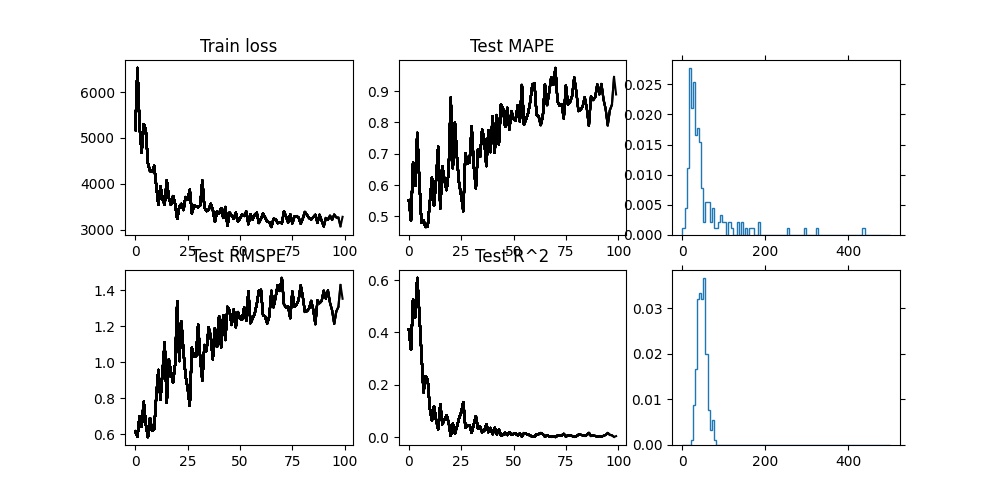
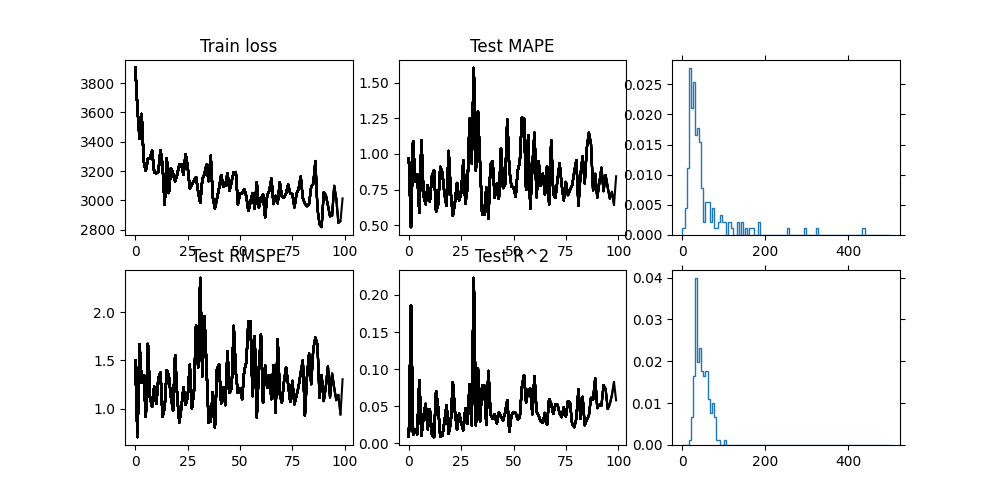
temp model save

diff --git a/src/models.py b/src/models.py
@@ -11,8 +11,8 @@ class EmadiNINet(nn.Module):
     '''
     def __init__(self):
         super(EmadiNINet, self).__init__()
-        dropout_value = 0.8
-        num_neurons = 50
+        dropout_value = 0.2
+        num_neurons = 30
         self.layers = nn.Sequential(
             nn.Linear(13, num_neurons),
             nn.Dropout(dropout_value),
@@ -26,12 +26,12 @@ class EmadiNINet(nn.Module):
             nn.Linear(num_neurons, num_neurons),
             nn.Dropout(dropout_value),
             nn.ReLU(),
-            nn.Linear(num_neurons, num_neurons),
-            nn.Dropout(dropout_value),
-            nn.ReLU(),
-            nn.Linear(num_neurons, num_neurons),
-            nn.Dropout(dropout_value),
-            nn.ReLU(),
+            # nn.Linear(num_neurons, num_neurons),
+            # nn.Dropout(dropout_value),
+            # nn.ReLU(),
+            # nn.Linear(num_neurons, num_neurons),
+            # nn.Dropout(dropout_value),
+            # nn.ReLU(),
             nn.Linear(num_neurons, 1),
             nn.ReLU()
         )

diff --git a/eval.py b/eval.py
@@ -132,10 +132,12 @@ if __name__ == "__main__":
 
     result_data = torch.stack(result_data).detach().numpy()
     print("max val: ", np.max(result_data))
-    # result_data[result_data > 100] = 100
+    result_data[result_data > 200] = 200
 
-    plt.imshow(result_data, cmap='summer_r')
+    plt.imshow(result_data, cmap='viridis_r')
     plt.colorbar()
+    plt.savefig('map.png')
     plt.show()
+
     print(image.shape)
     print(image.count)

diff --git a/train.py b/train.py
@@ -36,7 +36,7 @@ def add_indices_columns(data_df):
     return data_df
 
 csv_file_path = "E:\School\Imperial\individual_project\individual_project\data\lucas_sentinel2_data_points_zhou2020.csv"
-lr = 0.01
+lr = 0.005
 epochs = 100
 data_df = load_csv_to_pd(csv_file_path)
 data_df = add_indices_columns(data_df)
